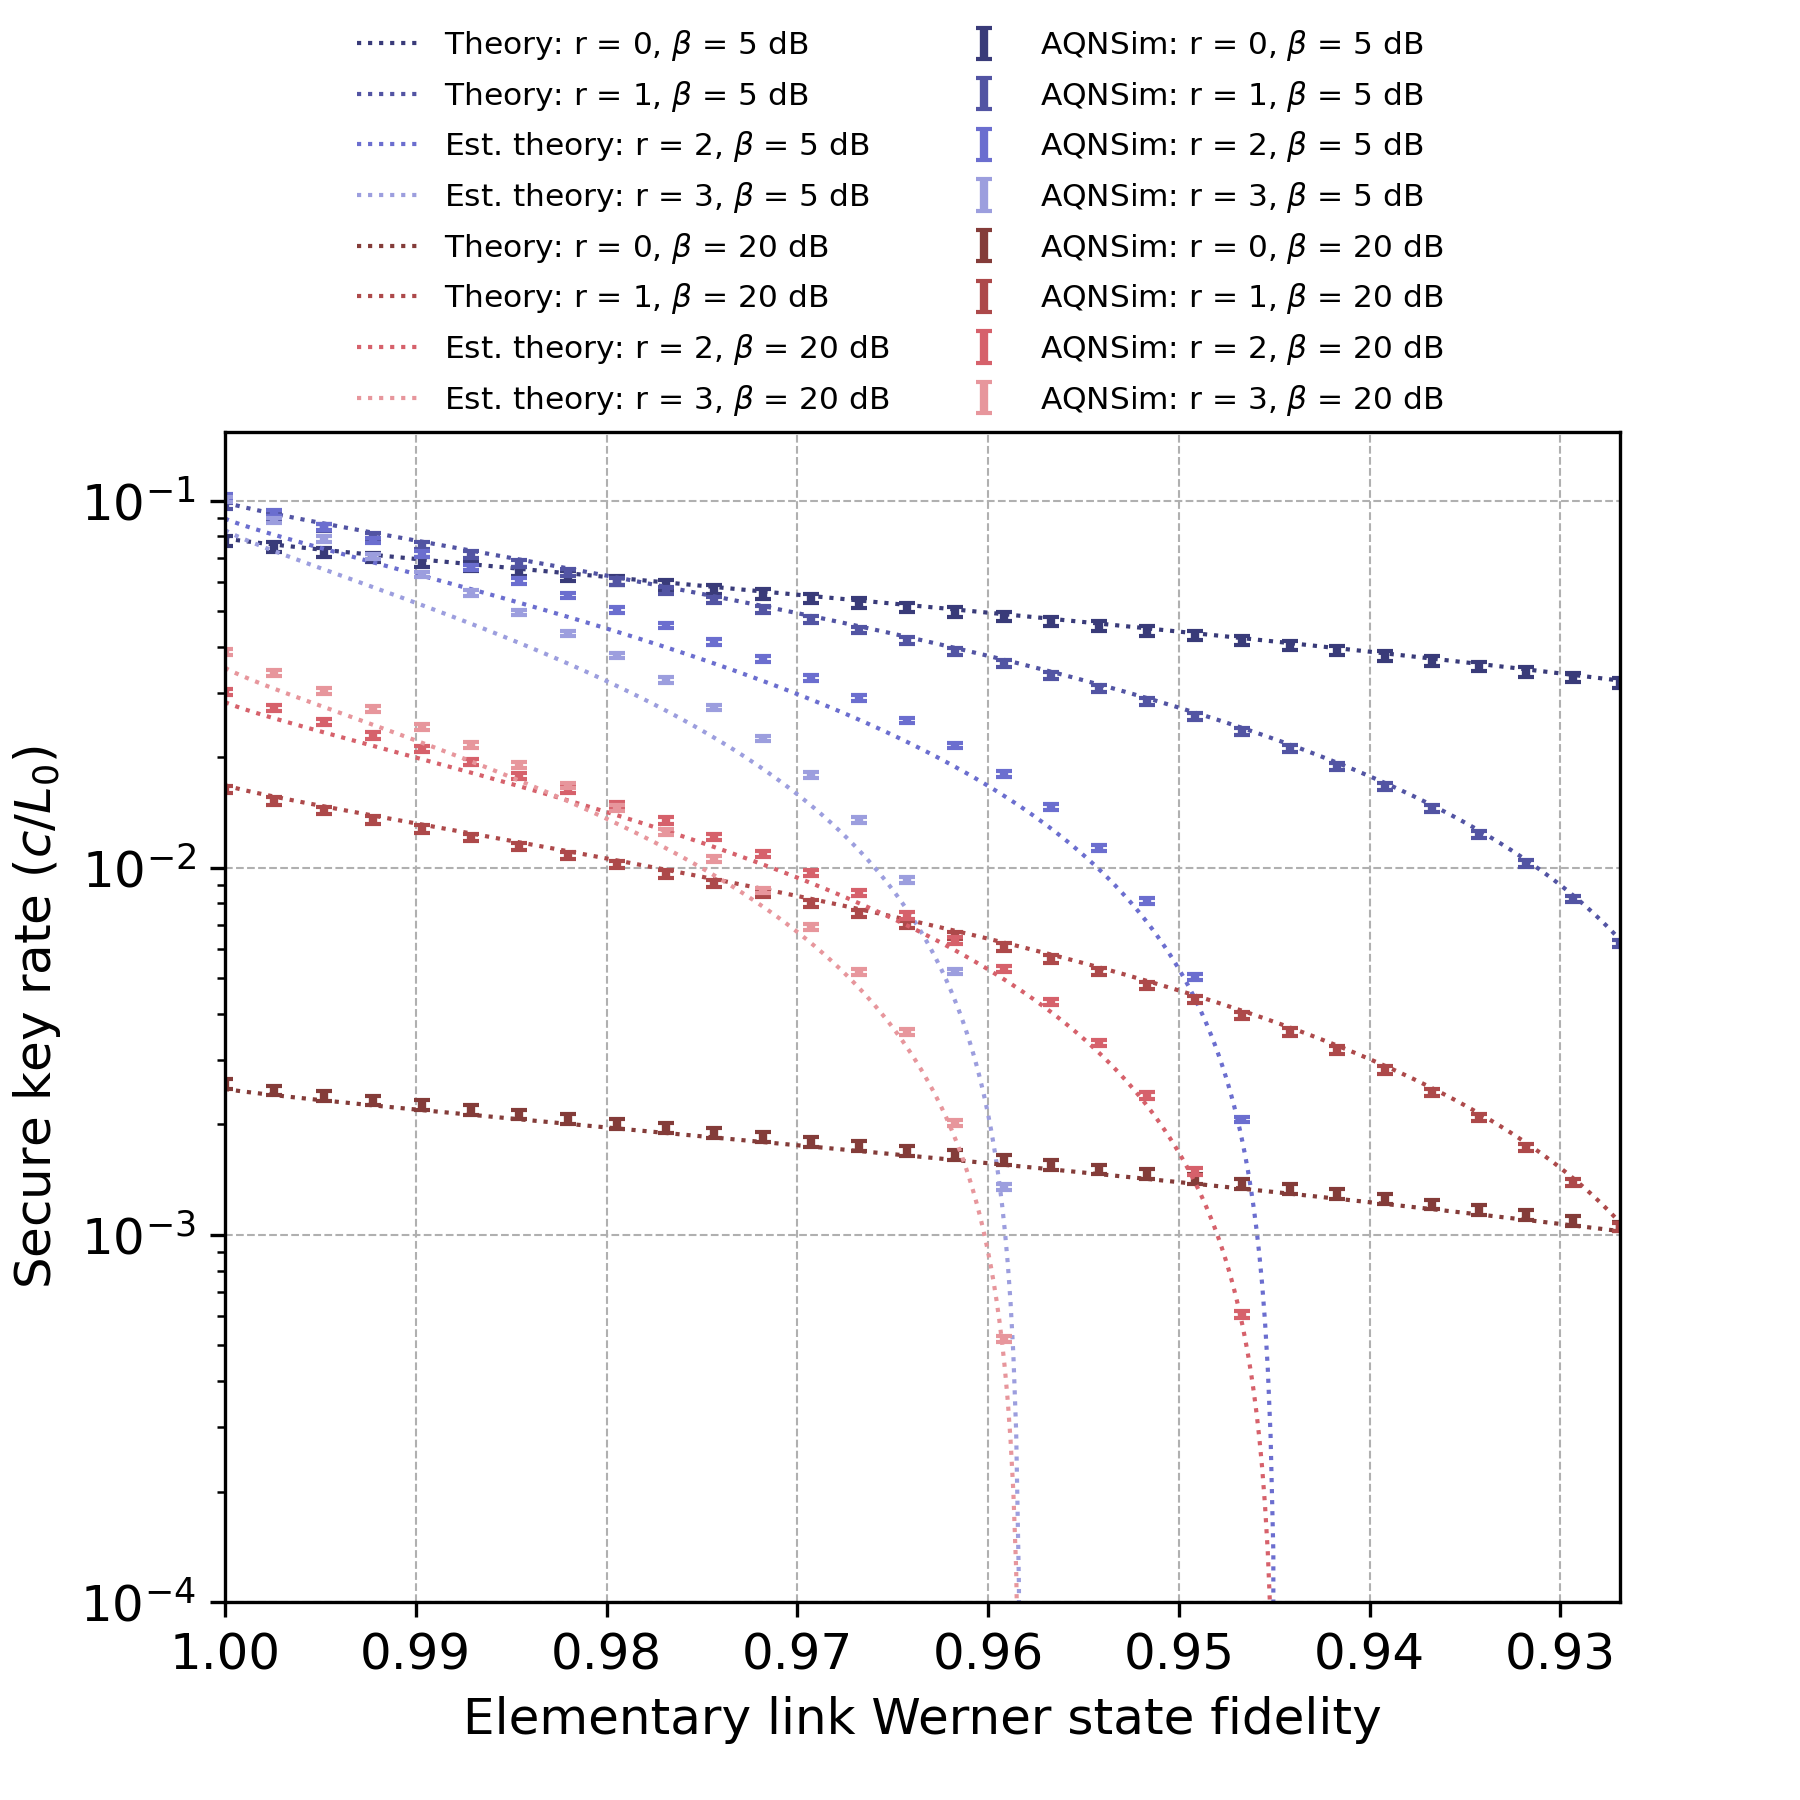
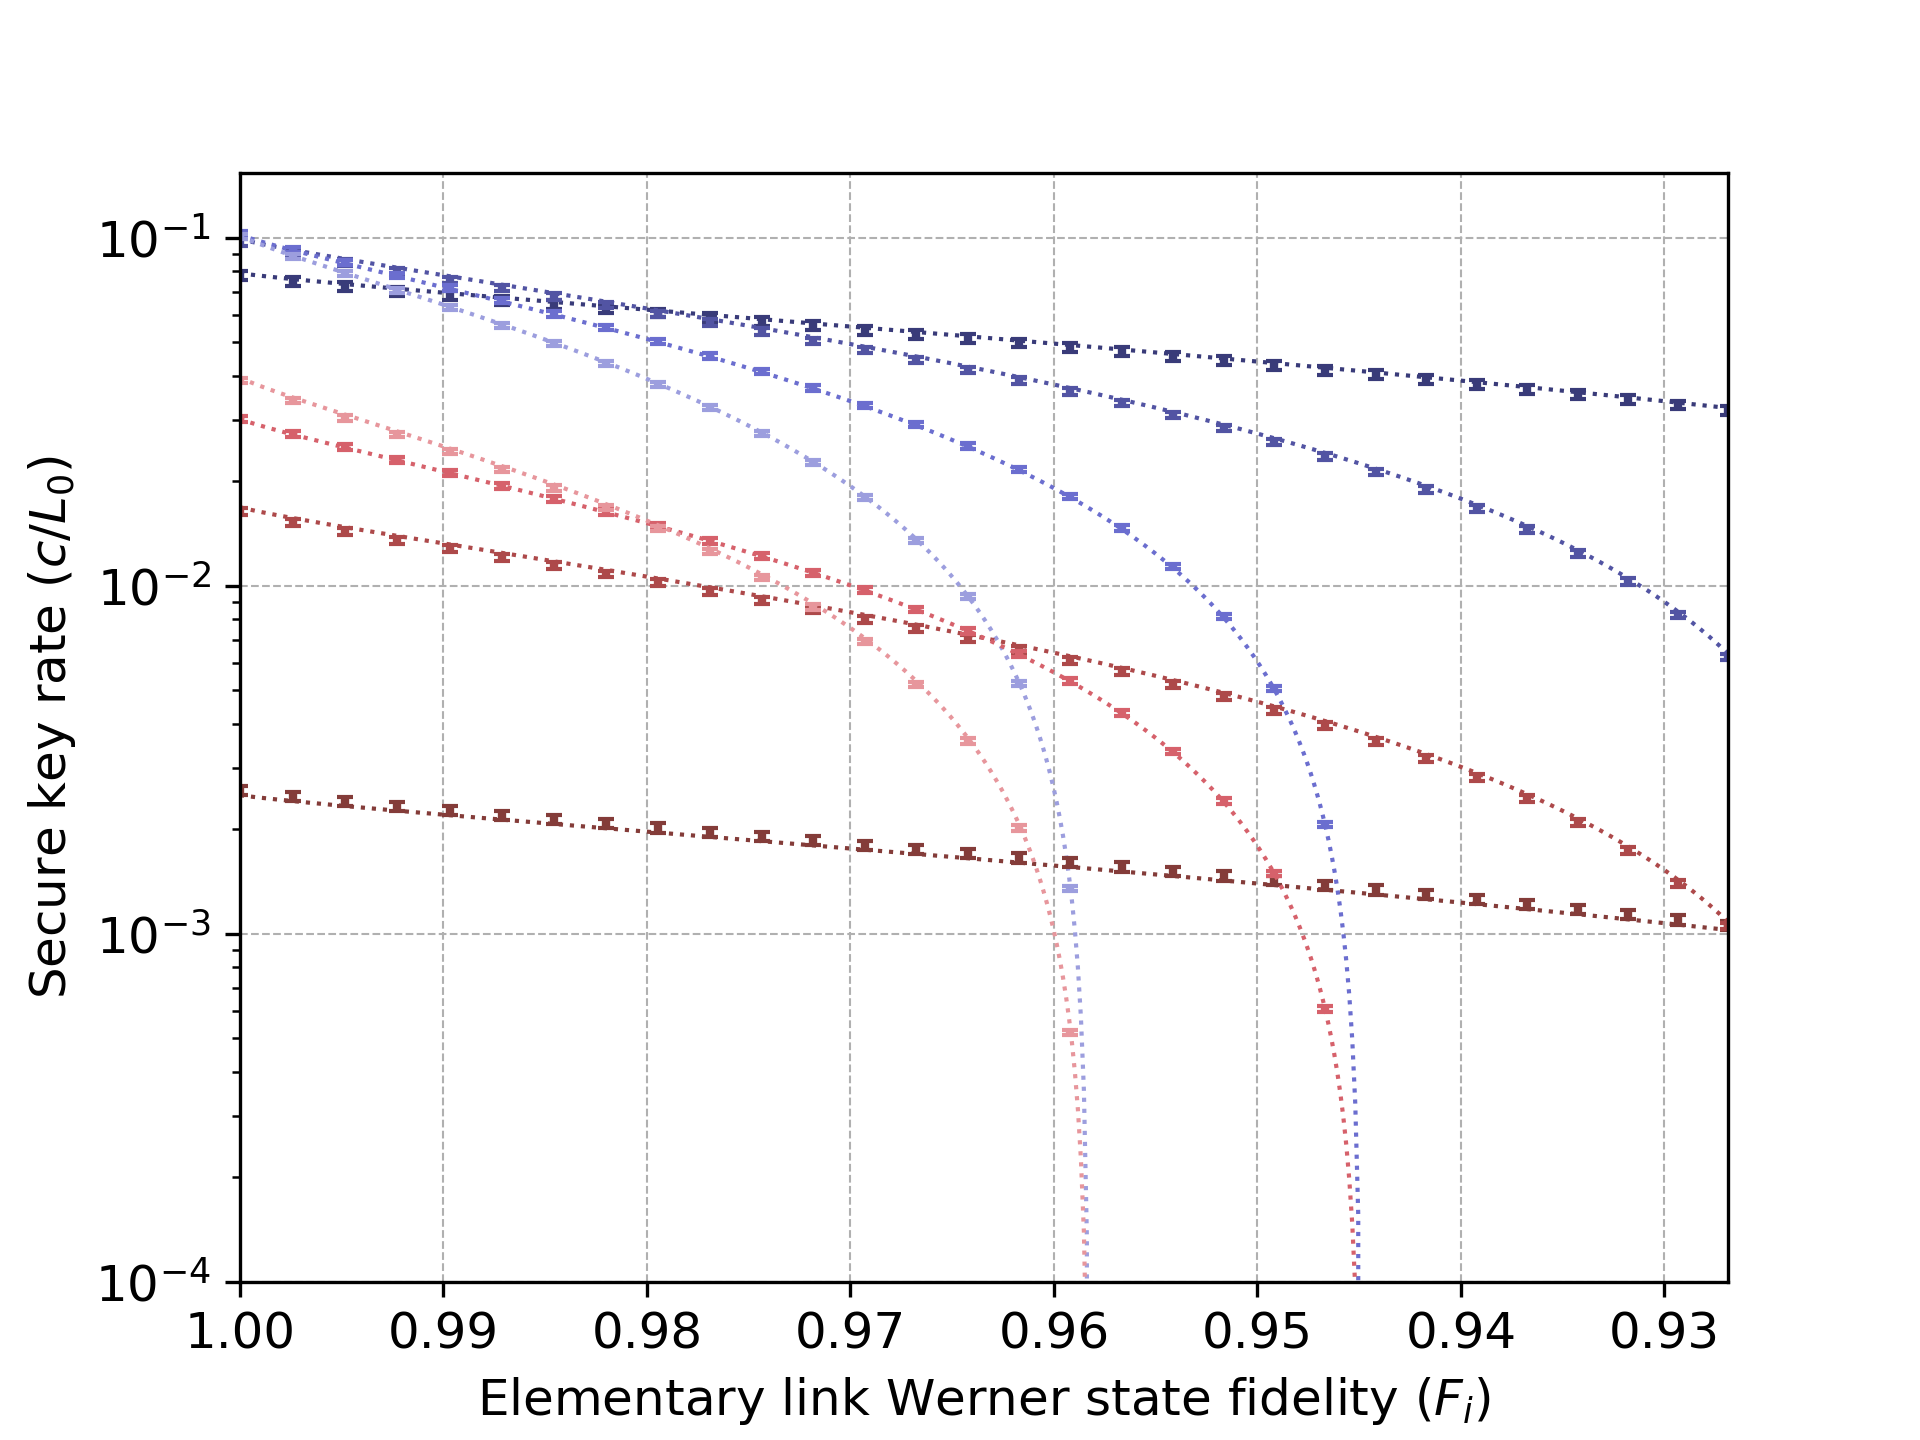
Update repeater secure key rate plot

diff --git a/repeater_chains/plot_key_vs_visibility.py b/repeater_chains/plot_key_vs_visibility.py
@@ -11,6 +11,8 @@ import json
 import argparse
 import matplotlib.pyplot as plt
 import numpy as np
+from scipy.special import comb
+
 
 """
 Usage:
@@ -19,7 +21,7 @@ where FOLDER_PATH_NAME is the path of the folder containing simulations generate
 running `run_repeater_chain_visibility_sweep.py`.
 """
 SMALL_FIG = True
-
+PLOT_LEGEND = False
 
 def calc_secure_key_rates(fidelities, time_means, time_errs=None):
     """
@@ -78,7 +80,7 @@ def plot_rate_vs_loss_n_repeaters_with_theory(simulation_results_folder_path):
 
     fig, axs = plt.subplots(1)
 
-    if SMALL_FIG:
+    if PLOT_LEGEND:
         fig.set_size_inches(6, 6)
 
     colors = plt.cm.get_cmap("tab20b")
@@ -154,18 +156,23 @@ def plot_rate_vs_loss_n_repeaters_with_theory(simulation_results_folder_path):
 
         # Calculate analytical rates
         nesting_level = np.log2(num_repeaters + 1)
-        if num_repeaters == 1:
-            # Analytical expression for special case of ONE repeater
-            theory_rate = (3 - 2 * P0) * elementary_link_quantum_delay / ((2 - P0) * P0)
-        else:
-            # Approximation for average time to entanglement for n repeaters
-            theory_rate = (
-                (3 / 2) ** nesting_level * elementary_link_quantum_delay * 1 / P0
+        if num_repeaters == 0:
+            theory_times = (
+                elementary_link_quantum_delay * 1 / P0
             )
+
+        else:
+            # Exact expression for average time to entanglement for n repeaters
+            j_array = np.arange(1, 2**nesting_level + 1, 1)
+            prefactor_terms = comb(2**nesting_level, j_array)
+            second_terms = (-1)**(j_array + 1) / (1 - (1 - P0)**j_array)
+            Zn = np.sum(prefactor_terms * second_terms)
+            theory_times = elementary_link_quantum_delay * Zn
+
 
         if num_repeaters > 1:
             theory_label = (
-                f"Est. theory: r = {num_repeaters}, $\\beta$ = {total_loss_in_db} dB"
+                f"Theory: r = {num_repeaters}, $\\beta$ = {total_loss_in_db} dB"
             )
         else:
             theory_label = (
@@ -173,7 +180,7 @@ def plot_rate_vs_loss_n_repeaters_with_theory(simulation_results_folder_path):
             )
 
         theory_secure_key_rates, _ = calc_secure_key_rates(
-            theory_fidelities, theory_rate
+            theory_fidelities, theory_times
         )
         axs.plot(
             elementary_pair_fidelities_theory,
@@ -185,15 +192,16 @@ def plot_rate_vs_loss_n_repeaters_with_theory(simulation_results_folder_path):
         )
 
     axs.grid(True, linestyle="--", linewidth=0.5)
-    fig.legend(
-        frameon=False,
-        fontsize=7.5,
-        loc="upper center",
-        bbox_to_anchor=(0.5, 1.0),
-        ncol=2,
-    )
-    plt.subplots_adjust(top=0.76)
-    axs.set_xlabel("Elementary link Werner state fidelity")
+    if PLOT_LEGEND:
+        fig.legend(
+            frameon=False,
+            fontsize=7.5,
+            loc="upper center",
+            bbox_to_anchor=(0.5, 1.0),
+            ncol=2,
+        )
+        plt.subplots_adjust(top=0.76)
+    axs.set_xlabel("Elementary link Werner state fidelity ($F_i$)")
     plt.yscale("log")
     plt.ylim(bottom=1e-4)
 